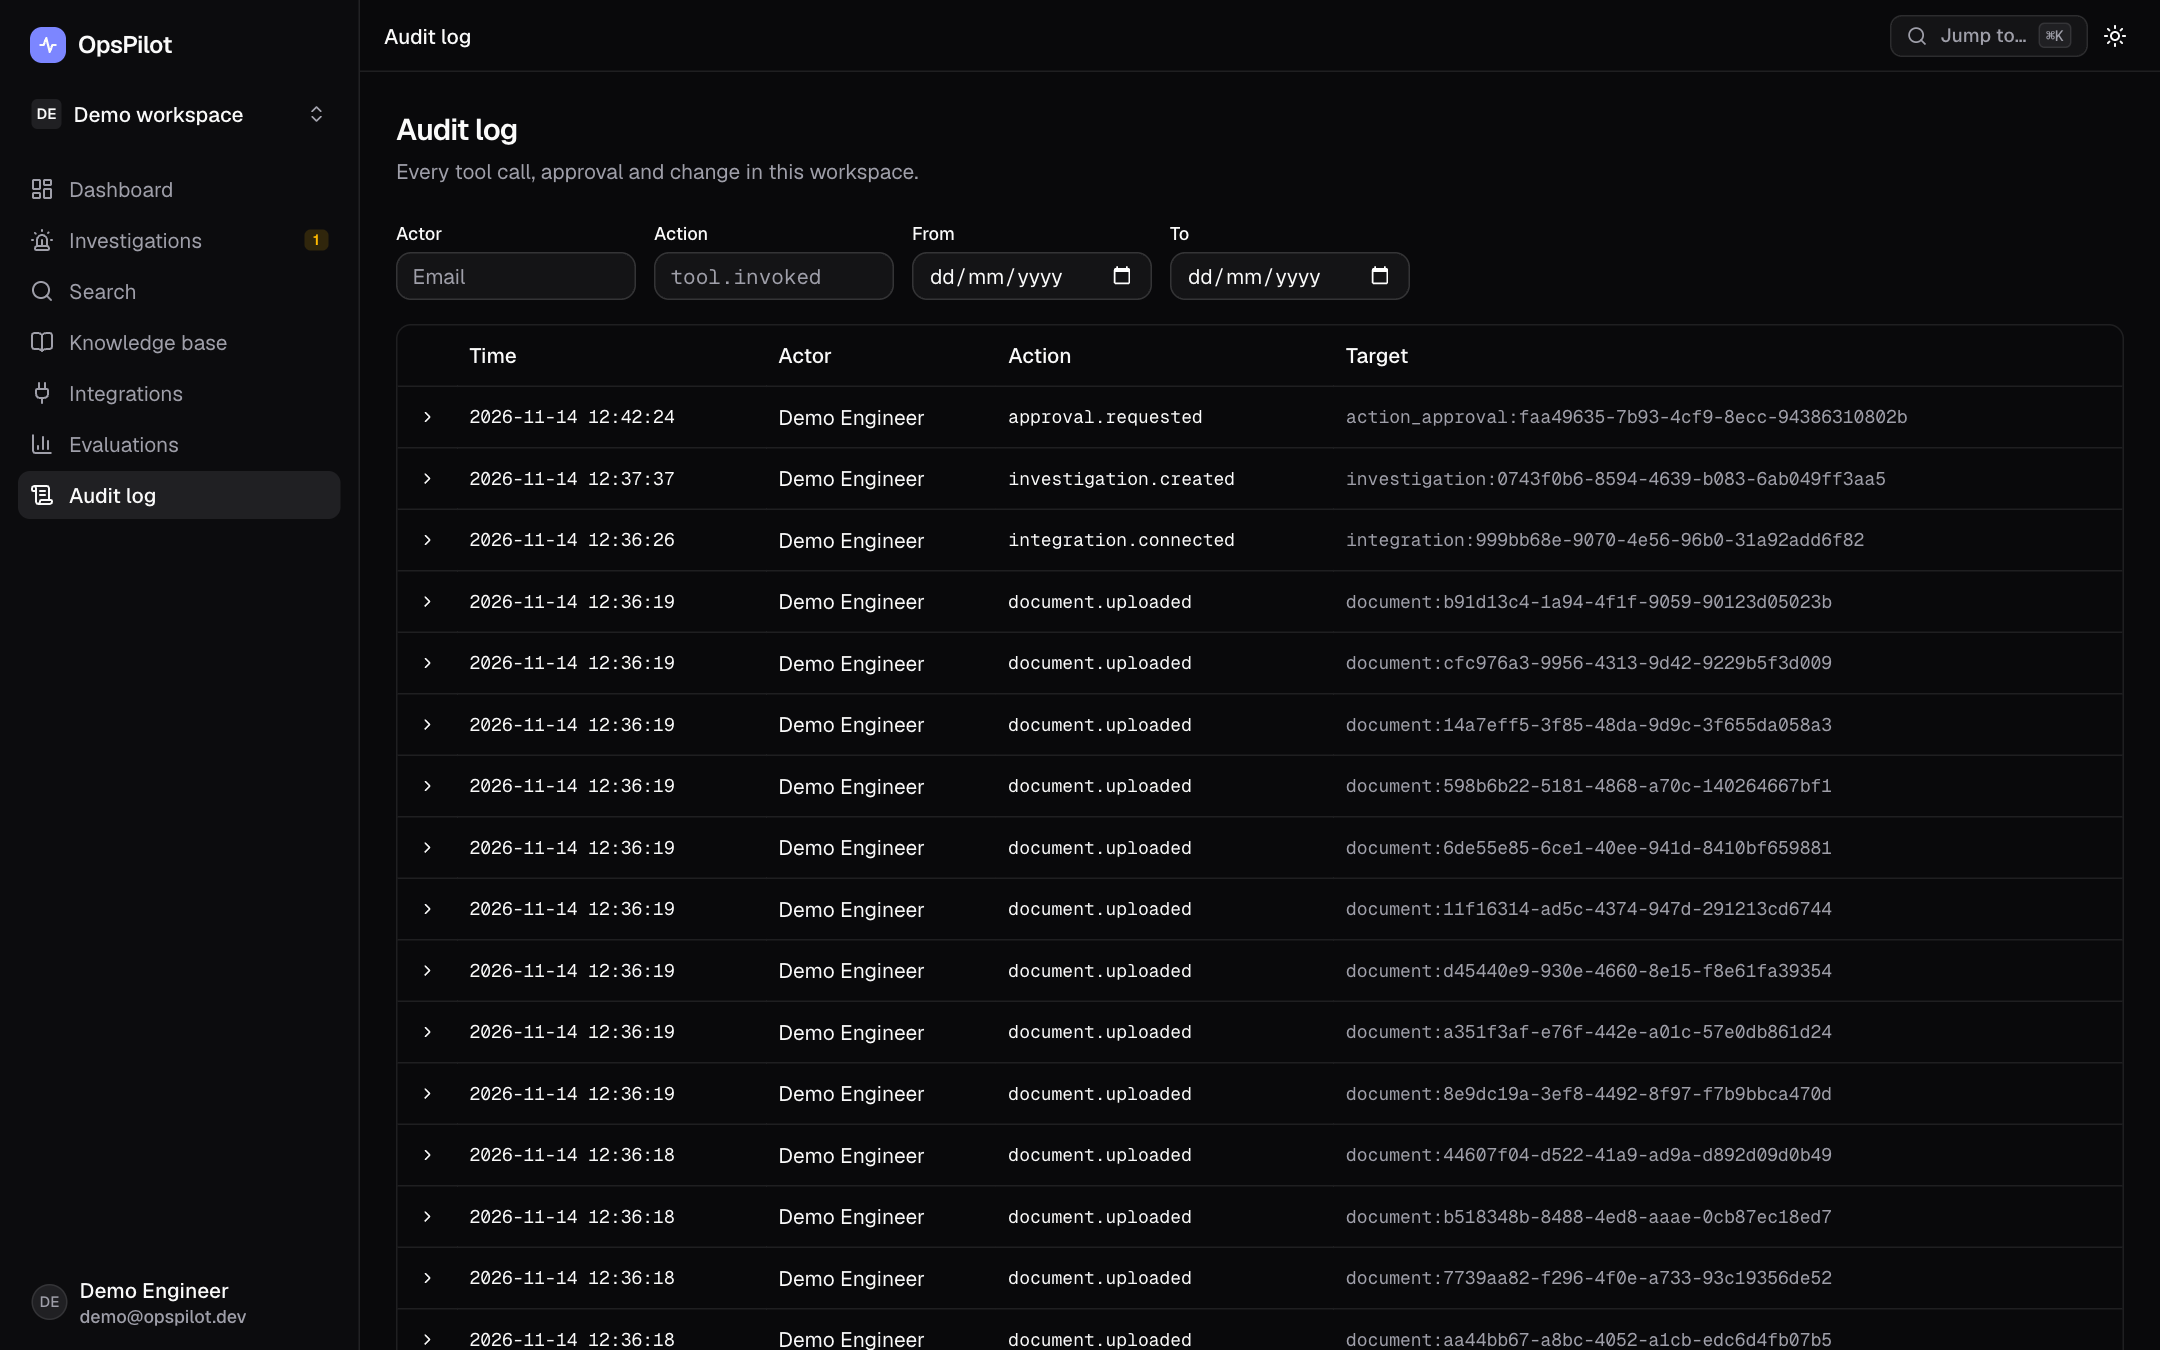
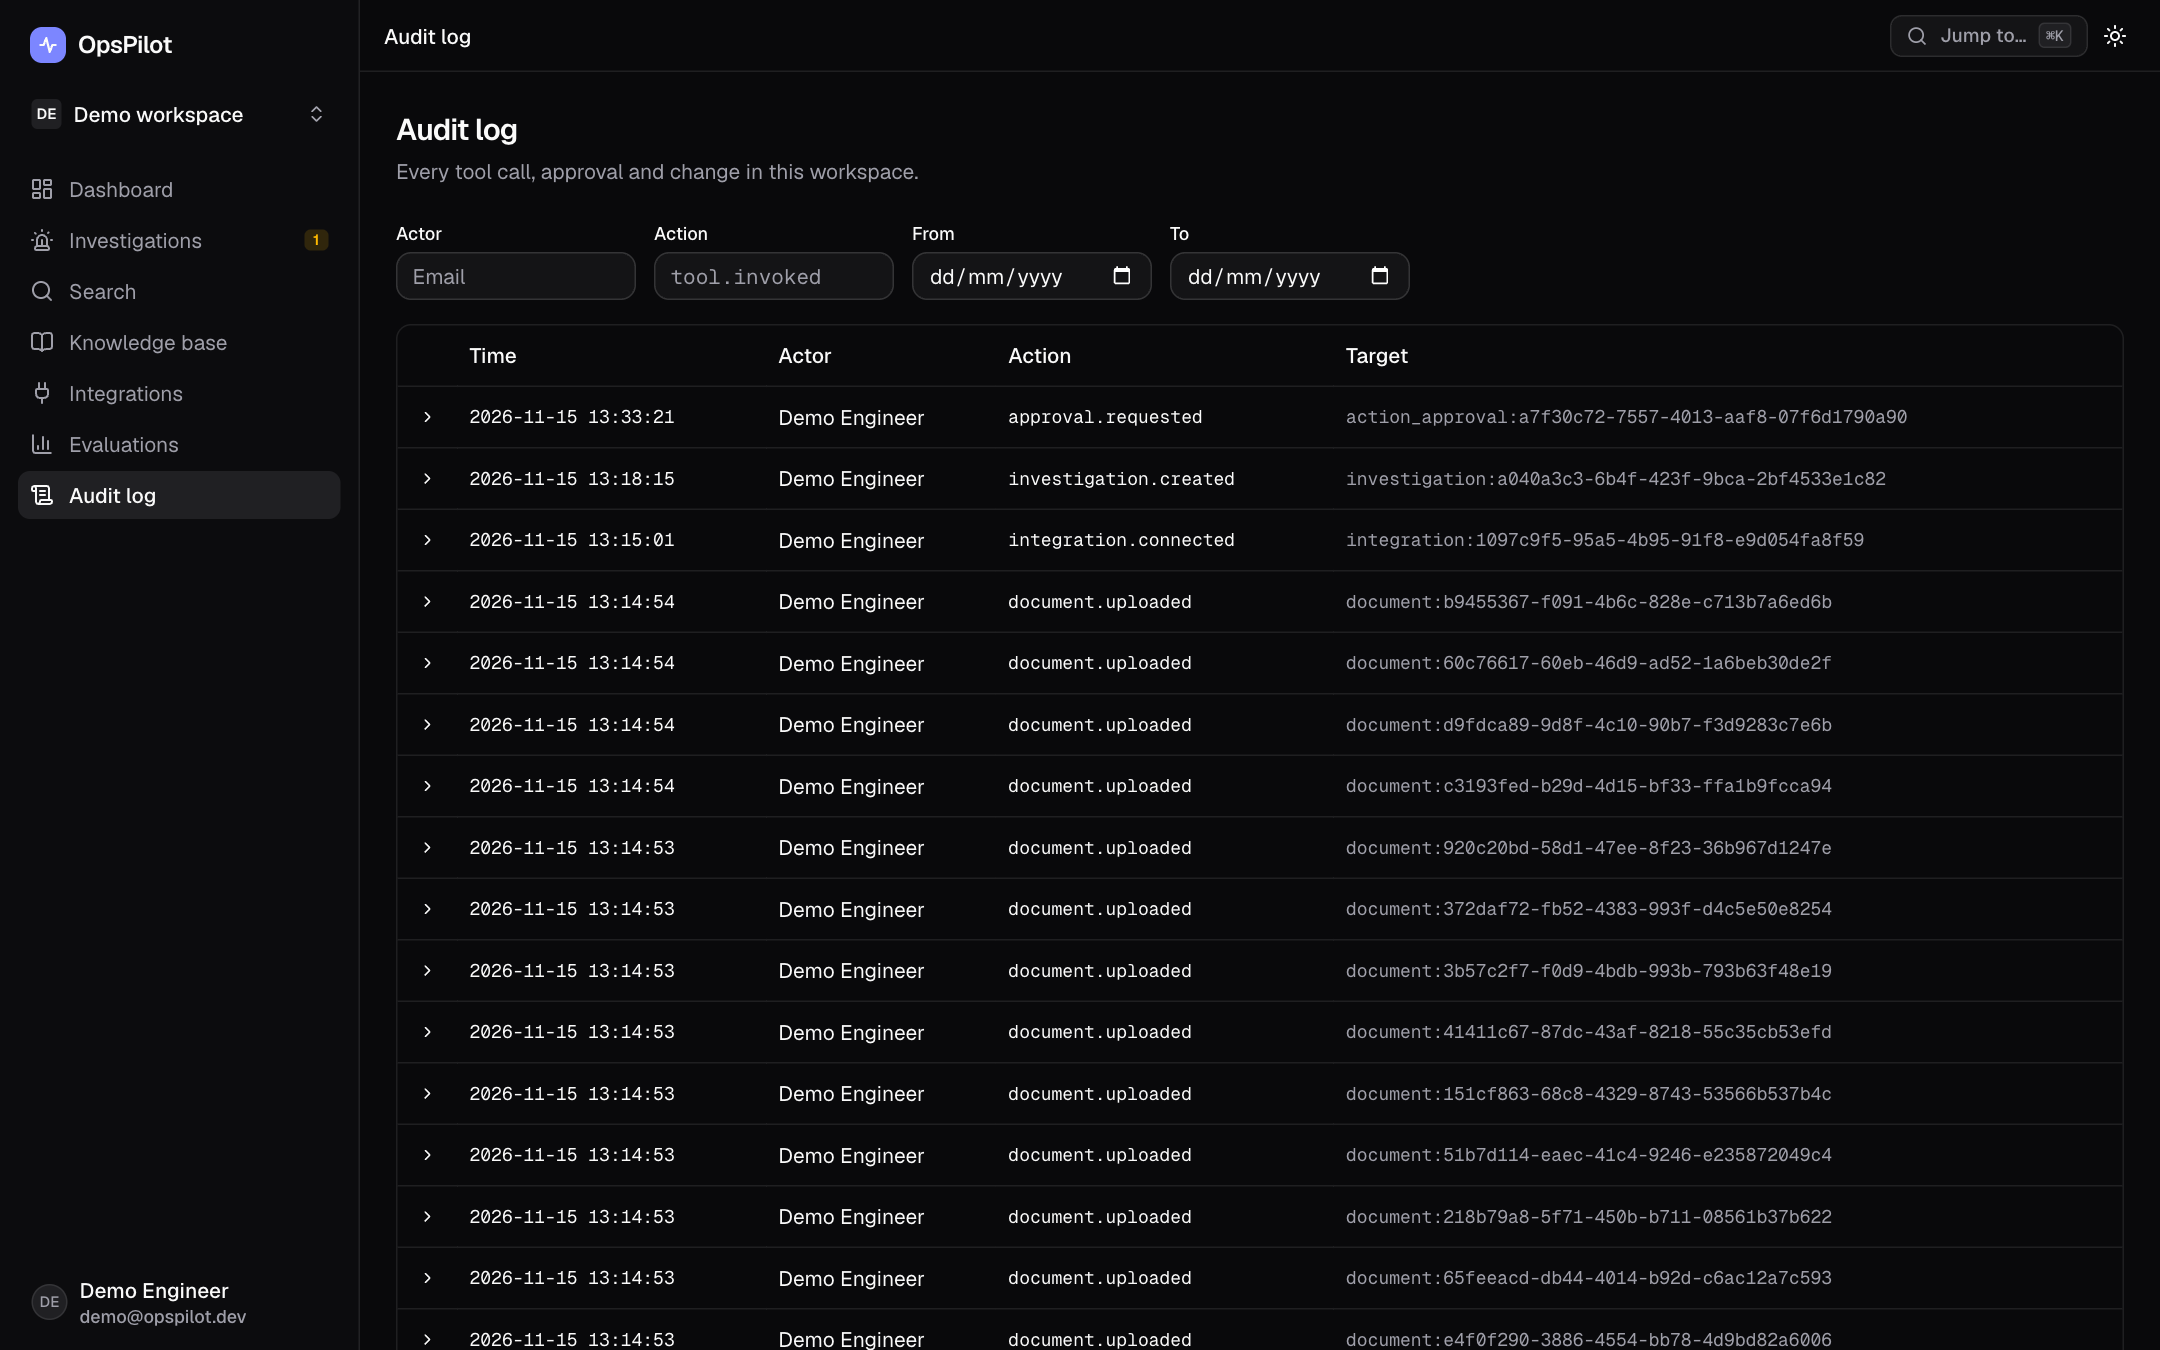
Docs: retake screenshots on a fresh rerank-mode stack; demo script with v2 results
Screenshots 01-12, 14 and 16 come from a clean Docker Compose stack
(INSTALL_RERANK=true, fresh volumes, seeded). 13, 15 and the new 17
(answer quality, tool selection, injection) come from the dev database,
which holds the v2 answer and extra runs. The demo script now mentions
stage timings, untrusted-data handling and the v2 numbers.

diff --git a/docs/DEMO.md b/docs/DEMO.md
@@ -31,8 +31,8 @@ Demo login: `demo@opspilot.dev` / `opspilot-demo-2026` (local only).
 |---|---|---|---|
 | 1 | 0:00 | Landing page → **Sign in** with the demo login | "OpsPilot is an incident-investigation assistant. It searches internal runbooks, pulls live evidence from tools, and writes a report that cites every claim — and says what it doesn't know." |
 | 2 | 0:30 | **Knowledge base** → open `orders-api-runbook` | "Documents go to S3, an SQS worker parses and chunks them by heading, and embeds each chunk with bge-m3 into pgvector. These are the chunks the search sees." |
-| 3 | 1:00 | **Search** → `connection pool timeout after deploy`, turn on **Debug ranks** | "Hybrid search: Postgres full-text and vector search run in parallel and are fused with Reciprocal Rank Fusion. Debug shows each result's lexical rank, vector rank and fused score." |
-| 4 | 1:30 | **Ask** tab → *What should I check first when orders-api latency spikes after a deploy?* | "Grounded answer: the model may only cite retrieved chunks; citations that don't map to a chunk are removed, and if evidence is thin it says so instead of guessing." |
+| 3 | 1:00 | **Search** → `connection pool timeout after deploy`, turn on **Debug ranks** | "Hybrid search: Postgres full-text and vector search run in parallel and are fused with Reciprocal Rank Fusion. Debug shows each result's lexical rank, vector rank and fused score, and the line under the results gives the time spent in each stage." |
+| 4 | 1:30 | **Ask** tab → *What should I check first when orders-api latency spikes after a deploy?* | "Grounded answer: the model may only cite retrieved chunks; citations that don't map to a chunk are removed, and if evidence is thin it says so instead of guessing. Retrieved text is passed to the model as labelled, untrusted data, and the model is told to ignore instructions written inside it. The timing line splits retrieval from generation." |
 | 5 | 2:15 | **New investigation** → *orders-api p95 latency and 5xx errors jumped right after the latest deploy. What changed?*, leave service and time range empty → **Start** | "It refuses to query live systems without a scope. It's a bounded state machine, not an open-ended agent." |
 | 6 | 2:35 | Fill **service** `orders-api`, **Last 6 hours** → **Continue** | Point at the progress steps and the live activity feed: "Each step streams over Server-Sent Events. Here it's calling CloudWatch through an MCP server — read-only tools, allowlisted log groups, timeouts and size caps." |
 | 7 | 3:30 | **Evidence** tab: filter **CloudWatch** vs **Knowledge base** | "Every item says where it came from — documentation or live data — with its source reference." |
@@ -40,7 +40,7 @@ Demo login: `demo@opspilot.dev` / `opspilot-demo-2026` (local only).
 | 9 | 4:15 | **Report** tab → **Full report** | "Observed facts cite evidence labels; statements whose numbers weren't in the evidence were removed and are listed under Unknowns." |
 | 10 | 4:45 | **Create Jira ticket** → **Request approval** → **Approve** | "Write actions never run on their own: the exact arguments are shown and need approval. There's no Jira server connected here, so it fails honestly instead of pretending." |
 | 11 | 5:15 | **Audit log** | "Every tool call, approval and change is recorded." |
-| 12 | 5:30 | **Evaluations** → Test set; open the Hybrid RRF run, expand a miss | "Retrieval is measured on a versioned, held-out question set: Recall@5, MRR, nDCG per strategy. Reranking ranks best; plain RRF loses to vector-only here because full-text is weak on paraphrases — the numbers drove that conclusion." |
+| 12 | 5:30 | **Evaluations** → dataset v2, Test set; open the Hybrid RRF run, expand a miss | "Retrieval is measured on a versioned, held-out set of 155 test questions: Recall@5, MRR and nDCG@10 per strategy. With the reranker, Recall@5 is 0.95 and nDCG@10 0.92. Plain RRF loses to vector-only here (0.90 vs 0.94 Recall@5) because full-text search is weak on paraphrased questions; the numbers drove that conclusion. Answers are scored for faithfulness by an LLM judge, citation precision and coverage, and abstention; tool selection and prompt-injection resistance have their own runs." |
 
 ## If something goes wrong
 
@@ -52,6 +52,7 @@ Demo login: `demo@opspilot.dev` / `opspilot-demo-2026` (local only).
 
 - **Why a state machine, not an agent loop:** predictable cost and latency, every step observable and testable, and a clear place to stop for missing parameters or approvals.
 - **Why MCP for tools:** tool servers run as separate processes with their own credentials (only `mcp-github` ever sees the GitHub token); the backend enforces an allowlist, argument policies, timeouts and output caps on top.
-- **Hallucination controls:** citation validation, number checks against evidence, "insufficient evidence" abstention (100% on unanswerable test questions), and a stricter rule for marking hypotheses supported.
-- **Honest evaluation:** held-out test split, dataset hash in every run, per-question drill-down, and what isn't measured (faithfulness) is stated rather than shown as zero.
+- **Hallucination controls:** citation validation, number checks against evidence, "insufficient evidence" abstention (all unanswerable v2 test questions abstained; abstention accuracy 0.994), and a stricter rule for marking hypotheses supported. Faithfulness by LLM judge is 0.938 over 289 claims; the judge is the same model family, so it is an estimate, not ground truth.
+- **Honest evaluation:** held-out test split, dataset hash in every run, per-question drill-down, and the weak spots shown rather than hidden: citation precision is 0.687, and the injection holdout passed 2 of 4 cases (0.833 resistance overall).
+- **Prompt injection:** retrieved chunks and tool output go to the model as labelled, untrusted data (it still fails some test cases, so it is a mitigation, not a guarantee), write actions always need human approval, and no document, tool or user content is rendered as raw HTML.
 - **Security:** access token only in memory, refresh token in an httpOnly cookie, per-workspace isolation on every query, presigned uploads, least-privilege IAM in the (unapplied) Terraform.
